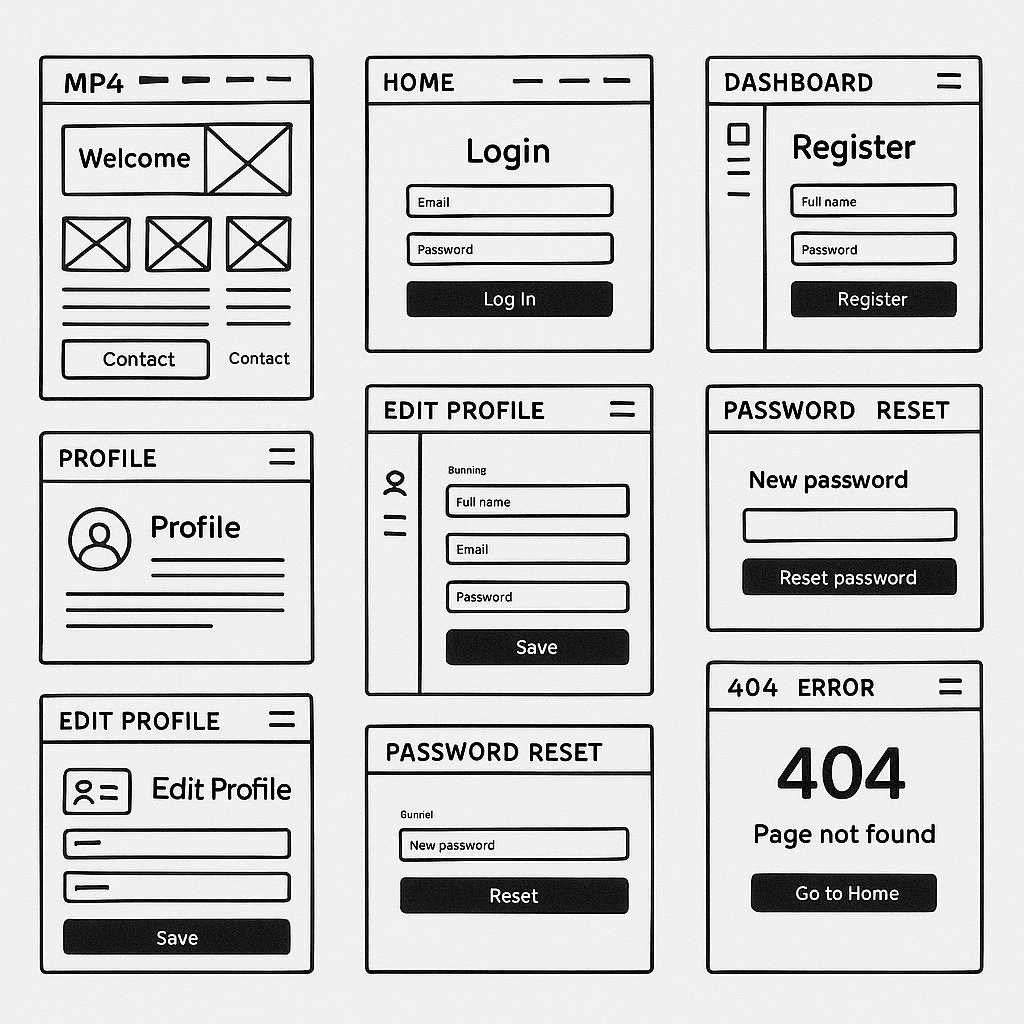
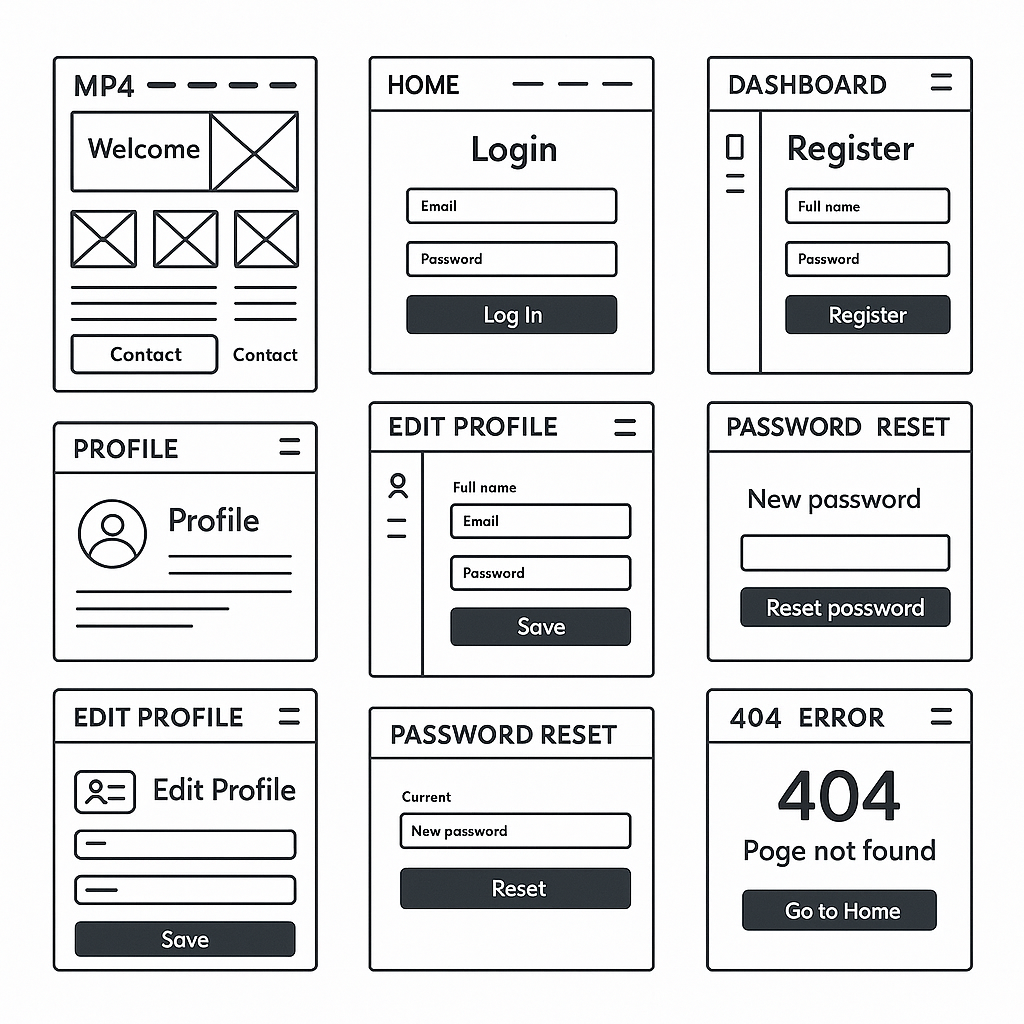
working progress readme

Changed region(s): [[0.3438, 0.0312, 0.6562, 0.9688], [0.0312, 0.0312, 0.3125, 0.9688], [0.6875, 0.0312, 0.9688, 0.9688]]

diff --git a/README.md b/README.md
@@ -102,7 +102,7 @@ The platform was also intended to demonstrate proficiency in Django model design
 
 As part of the early UX design process, wireframes were created to map out the intended structure and layout of each major page on VelVady. These visual plans guided the implementation of the homepage, dashboard, service detail pages, and forms.
 
-Each wireframe helped establish consistency, mobile responsiveness, and an intuitive user flow for customers, from discovery to purchase.
+I designed the wireframe set using Figma, focusing on UX layout planning before developing the actual templates in Django. Each wireframe prioritises functionality, clarity, and mobile responsiveness.
 
 **Wireframe Collection:**
 
